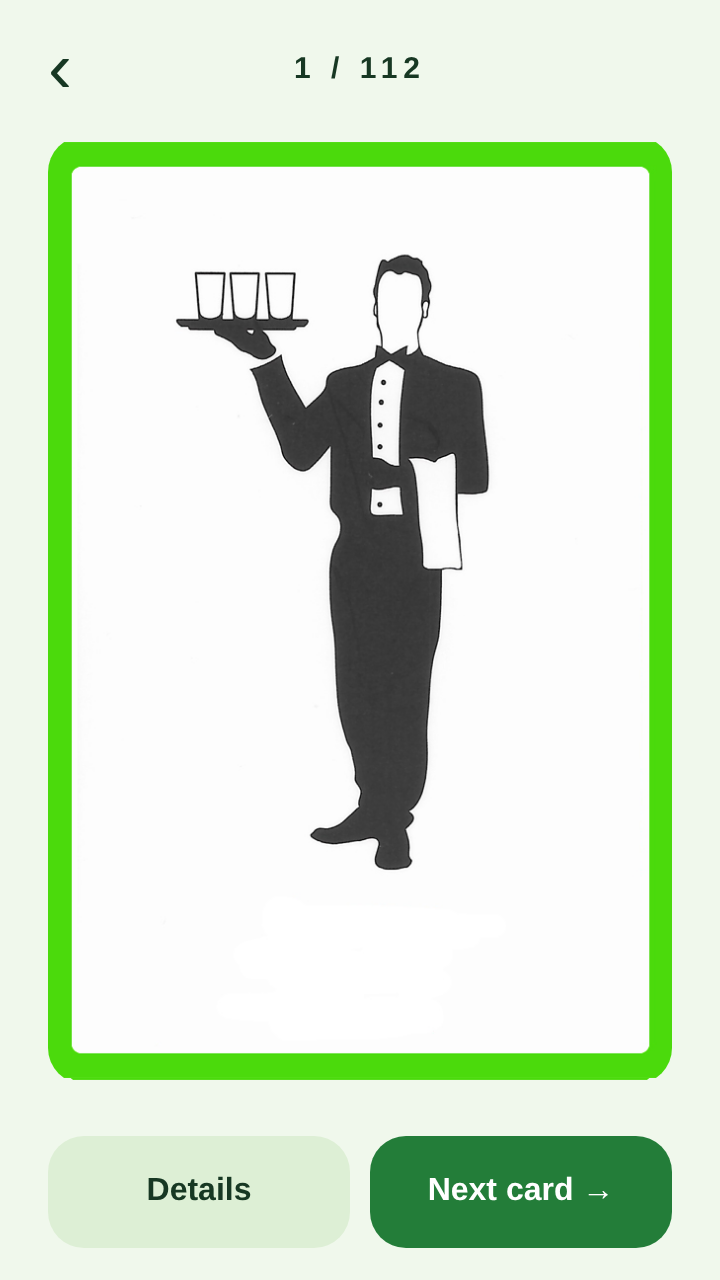
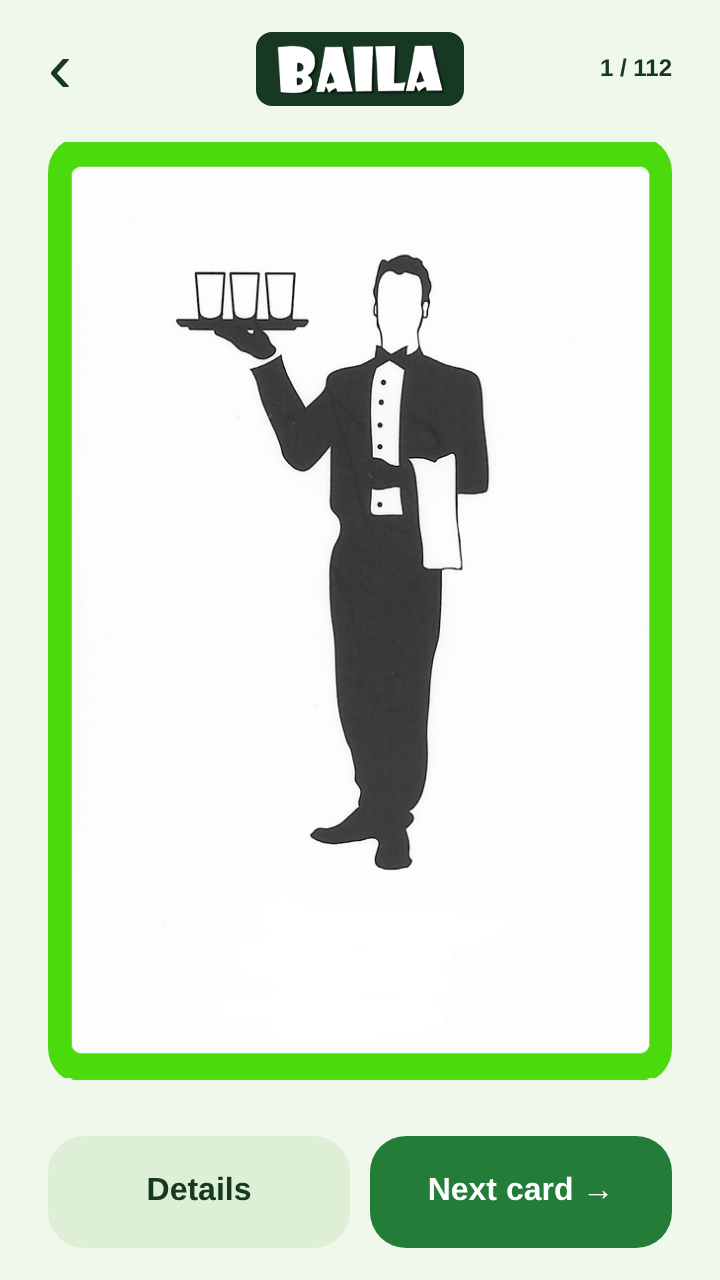
Refresh BAILA branding and documentation

Changed region(s): [[0.3361, 0.0, 0.6417, 0.0938], [0.825, 0.0312, 0.9472, 0.0625]]

diff --git a/src/components/ui/Header.js b/src/components/ui/Header.js
@@ -1,9 +1,9 @@
 import React from 'react';
-import {View, Text, TouchableOpacity, StyleSheet} from 'react-native';
+import {Image, View, Text, TouchableOpacity, StyleSheet} from 'react-native';
 import {strings} from '../../content';
 import {colors} from '../../theme';
 
-export default function Header({navigation, label = 'BAILA', onBack}) {
+export default function Header({navigation, progress, onBack}) {
   return (
     <View style={styles.header}>
       <TouchableOpacity
@@ -15,8 +15,16 @@ export default function Header({navigation, label = 'BAILA', onBack}) {
       >
         <Text style={styles.backText}>‹</Text>
       </TouchableOpacity>
-      <Text style={styles.wordmark}>{label}</Text>
-      <View style={styles.headerSpacer} />
+      <View style={styles.brand}>
+        <Image
+          source={require('../../../assets/baila_logo2.png')}
+          accessibilityLabel="BAILA"
+          style={styles.logo}
+        />
+      </View>
+      <View style={styles.trailing}>
+        {progress && <Text style={styles.progress}>{progress}</Text>}
+      </View>
     </View>
   );
 }
@@ -28,14 +36,16 @@ const styles = StyleSheet.create({
     justifyContent: 'space-between',
     paddingVertical: 12,
   },
-  wordmark: {
-    fontSize: 15,
-    fontWeight: '900',
-    letterSpacing: 3,
-    color: colors.text,
+  brand: {
+    backgroundColor: colors.text,
+    borderRadius: 8,
+    paddingHorizontal: 10,
+    paddingVertical: 6,
   },
-  // Match the back target width to keep the label centered.
-  headerSpacer: {width: 64},
+  logo: {width: 84, height: 25, resizeMode: 'contain'},
+  // Match the back target width to keep the logo centered.
+  trailing: {width: 64, alignItems: 'flex-end'},
+  progress: {fontSize: 12, fontWeight: '700', color: colors.text},
   back: {width: 64, minHeight: 44, justifyContent: 'center'},
   backText: {fontSize: 36, lineHeight: 40, color: colors.text},
 });

diff --git a/src/screens/HomeScreen.js b/src/screens/HomeScreen.js
@@ -16,9 +16,6 @@ export default function HomeScreen({navigation}) {
 
   return (
     <Screen>
-      <View style={styles.header}>
-        <Text style={styles.logo}>BAILA</Text>
-      </View>
       <View style={styles.artwork}>
         <Image
           source={require('../../assets/branding/baila-v2-icon.png')}
@@ -54,15 +51,8 @@ export default function HomeScreen({navigation}) {
 }
 
 const styles = StyleSheet.create({
-  header: {
-    flexDirection: 'row',
-    alignItems: 'center',
-    justifyContent: 'space-between',
-    paddingTop: 12,
-  },
-  logo: {fontSize: 24, fontWeight: '800', color: colors.text},
   // The art gives up space before the controls do on smaller phones.
-  artwork: {flex: 1, minHeight: 0, marginVertical: 20},
+  artwork: {flex: 1, minHeight: 0, marginHorizontal: -8, marginVertical: 20},
   image: {flex: 1, width: '100%', resizeMode: 'contain'},
   actions: {paddingBottom: 16},
   space: {height: 10},

diff --git a/__tests__/english-flow-test.js b/__tests__/english-flow-test.js
@@ -1,6 +1,6 @@
 import React from 'react';
 import renderer, {act} from 'react-test-renderer';
-import {Alert, Text, TextInput} from 'react-native';
+import {Alert, Image, Text, TextInput} from 'react-native';
 import App from '../App';
 import {strings} from '../src/content';
 import {photoCards} from '../constants';
@@ -19,7 +19,8 @@ it('keeps the complete navigation flow, rules, and dialogs English-only', async 
     await act(async () => {
       app = renderer.create(<App />);
     });
-    expect(hasText('BAILA')).toBe(true);
+    expect(hasText('BAILA')).toBe(false);
+    expect(app.root.findByType(Image).props.accessibilityLabel).toBe('BAILA');
     expect(
       app.root.findAll(
         (node) =>

diff --git a/src/screens/GameScreen.js b/src/screens/GameScreen.js
@@ -50,10 +50,10 @@ export default function GameScreen({navigation}) {
       <Header
         navigation={navigation}
         onBack={exit}
-        label={
+        progress={
           deck.length
             ? `${Math.min(index + 1, deck.length)} / ${deck.length}`
-            : 'BAILA'
+            : undefined
         }
       />
       <View style={styles.stage} onLayout={measure}>

diff --git a/README.md b/README.md
@@ -27,11 +27,6 @@ These images capture the **actual app components rendered in a browser for docum
 </tr>
 </table>
 
-## Branches
-
-- **`main`** — English-only interface, card rules, and documentation previews. No language switch or localization layer.
-- **[`multilingual`](https://github.com/giarous/baila-v2/tree/multilingual)** — the preserved English/Russian version with language switching.
-
 ## What you can do
 
 - Build a custom deck from 28 card types, with four copies of every selected type.
@@ -74,9 +69,9 @@ npm run format:check
 
 The installed name is **BAILA**. Its application ID is `com.tbaila.v2`, allowing it to coexist with the original app. APKs are attached to [GitHub Releases](https://github.com/giarous/baila-v2/releases), not committed into the source tree. A new APK is produced only after running the manual build workflow. These are development-signed previews, not Google Play releases. iOS sources are included but require validation on macOS.
 
-## Project ownership and AI assistance
+## Project ownership
 
-A personal project by [giarous](https://github.com/giarous). The Classic BAILA redesign, component restructuring, and portfolio documentation were implemented with **OpenAI Codex**, following the owner's direction. The related commits explicitly identify this AI assistance.
+A personal project by [giarous](https://github.com/giarous).
 
 ## Credits and rights
 

diff --git a/docs/DEVELOPMENT.md b/docs/DEVELOPMENT.md
@@ -87,4 +87,4 @@ The distinct application ID permits side-by-side installation with the original 
 
 On macOS with Xcode, install the iOS pods and run `npm run ios`. The iOS host targets the current React Native version, but has not been built or validated in this Linux environment.
 
-In the managed cloud workspace, activate the current tools with `source /workspace/.android-dev/activate-modern.sh` when available. React Native's Android artifact downloads redirect to `repo.reactnative.dev`; blocked access to that host prevents a local native build. Keep TLS verification enabled. Use the GitHub workflow to build outside this workspace when its network policy blocks that dependency.
+React Native's Android artifact downloads redirect to `repo.reactnative.dev`. If your network blocks that host, use the GitHub workflow to build the APK.
